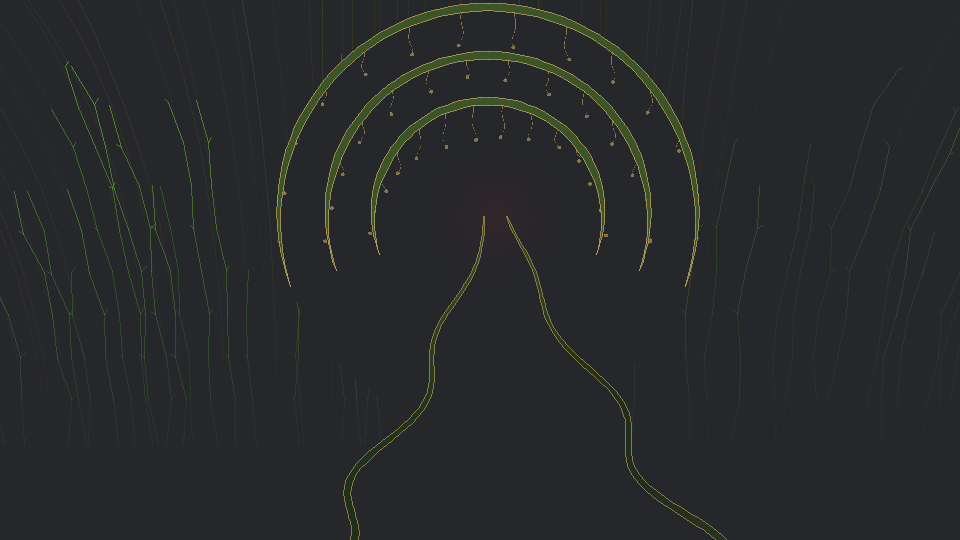
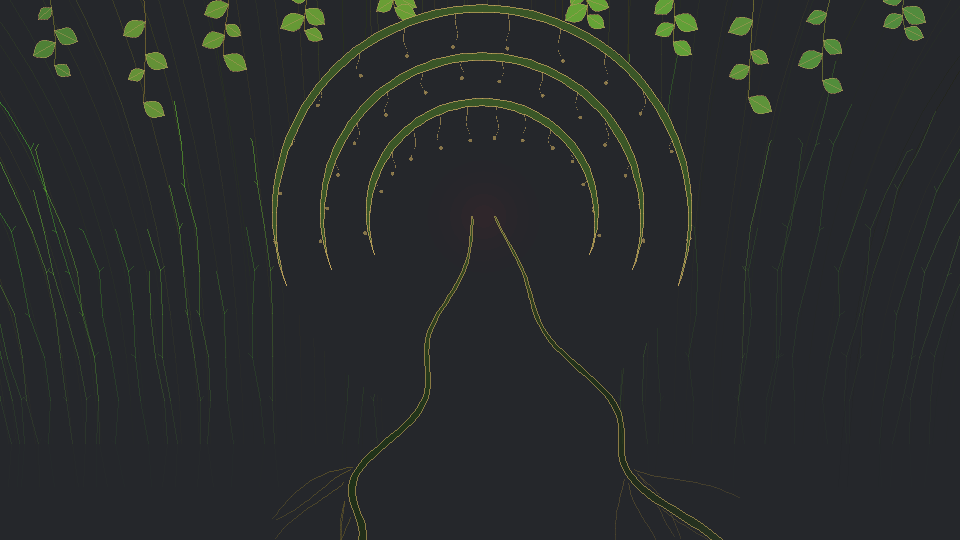
Heartwood (flagship): add undulating roots and a top canopy
- Roots: an undulating root flare from each trunk base, spreading down and
  outward off the bottom of the frame (umber/sienna, tapered). Drawn behind
  the ribbons and held a margin clear of the path wherever they would cross it.
- Canopy: leaf-laden branches hang from the top edge into the frame and off
  the top, framing the ring crown — each branch's hang is depth-limited so it
  keeps clear of the rings, and they sway gently.
- Refresh the flagship thumbnail and Wallpaper Engine zip.

The Simple variant (heartwood-simple) is untouched.

diff --git a/heartwood.html b/heartwood.html
@@ -369,11 +369,13 @@
 //
 // Layers, back to front:
 //   ground      - flat dark backdrop (env.background)
-//   forest      - swaying vertical tree-lines, faded by depth
-//   apex glow   - soft warm breathing light at the shared convergence point
+//   forest      - vined, swaying tree-lines that fan toward the edges
+//   apex glow   - dim burgundy light at the shared convergence point
+//   roots       - undulating root flare from each trunk base, kept clear of the path
 //   ribbons     - the two converging trunks/paths: segmented earthy-green fill
 //                 with a nouveau contour; breathe + sway in sync
-//   (future overlays: canopy at the top, root flare + leaf litter at the bottom)
+//   canopy      - leaf branches hanging from the top edge, framing the crown
+//   rings       - tapered, gold-dripping half-ring crown at the convergence
 (function (App) {
   App.createHeartwood = function (deps) {
     var color = deps.color;
@@ -716,6 +718,118 @@
       }
     }
 
+    // ---- roots: an undulating root flare from each trunk base, spreading down
+    // and outward off the bottom of the frame. Drawn behind the ribbons and kept
+    // a margin clear of the path wherever they would cross it. ----
+    function nearPath(x, y, ax, ay, w, h, margin) {
+      if (y < ay || y > h * 1.06) return false;
+      var t = (y - ay) / (h * 1.06 - ay);
+      var half = ribbonWidth(t) * 0.5 + margin;
+      return Math.abs(x - ribbonX(-1, t, ax, w)) < half || Math.abs(x - ribbonX(1, t, ax, w)) < half;
+    }
+
+    // Draw only the part of a root segment that keeps clear of the path margin.
+    function drawRootSeg(ctx, a, b, style, width, ax, ay, w, h, margin) {
+      var ai = nearPath(a.x, a.y, ax, ay, w, h, margin);
+      var bi = nearPath(b.x, b.y, ax, ay, w, h, margin);
+      if (ai && bi) return;
+      if (!ai && !bi) { App.strokePolyline(ctx, [a, b], style, width); return; }
+      var inP = ai ? a : b, outP = ai ? b : a;
+      for (var k = 0; k < 12; k++) {
+        var mx = (inP.x + outP.x) * 0.5, my = (inP.y + outP.y) * 0.5;
+        if (nearPath(mx, my, ax, ay, w, h, margin)) { inP = { x: mx, y: my }; }
+        else { outP = { x: mx, y: my }; }
+      }
+      App.strokePolyline(ctx, [outP, ai ? b : a], style, width);
+    }
+
+    var ROOT_SEGS = 18;
+    function growRoot(ctx, sx, sy, ang0, seed, t, ax, ay, w, h, baseWidth) {
+      var len = minDim * (0.16 + 0.08 * ((seed * 13) % 7) / 7);
+      var step = len / ROOT_SEGS, margin = minDim * 0.01;
+      var x = sx, y = sy, prev = { x: x, y: y };
+      var coil = 0.14 + 0.12 * ((seed * 7) % 5) / 5, ph = seed * 1.7;
+      var c = color.getCellColor(sx, Math.min(h, sy), w, h);
+      var rhue = c.h + (30 - c.h) * 0.72;                  // pull strongly toward umber/sienna
+      var rsat = Math.min(52, c.s * 1.15), rl = Math.min(42, c.l * 0.9);
+      for (var i = 1; i <= ROOT_SEGS; i++) {
+        var prog = i / ROOT_SEGS;
+        // Undulation: wavers over time and along the length; eases gently toward
+        // straight down as it descends, so roots curve from outward to downward.
+        var ang = ang0 + Math.sin(prog * 4 + ph + t * 0.7) * 0.3 * (1 - 0.35 * prog)
+                       + coil * Math.sin(prog * 3 + ph);
+        ang += (Math.PI / 2 - ang) * (0.02 + 0.13 * prog);
+        x += Math.cos(ang) * step; y += Math.sin(ang) * step;
+        var wd = baseWidth * Math.pow(1 - prog, 0.7) + 0.6; // taper to a fine tip
+        var style = 'hsla(' + rhue + ', ' + rsat + '%, ' + rl + '%, ' + (0.85 * (1 - 0.45 * prog)).toFixed(3) + ')';
+        drawRootSeg(ctx, prev, { x: x, y: y }, style, wd, ax, ay, w, h, margin);
+        prev = { x: x, y: y };
+      }
+    }
+
+    function drawRoots(ctx, w, h, t, ax, ay) {
+      var pathBottom = h * 1.06;
+      for (var sIdx = 0; sIdx < 2; sIdx++) {
+        var side = sIdx === 0 ? -1 : 1;
+        var flareT = 0.7;
+        var fx = ribbonX(side, flareT, ax, w), fy = ay + (pathBottom - ay) * flareT;
+        var baseW = ribbonWidth(flareT), nRoots = 6;
+        for (var ri = 0; ri < nRoots; ri++) {
+          var frac = nRoots > 1 ? ri / (nRoots - 1) : 0.5;
+          var ang0 = Math.PI / 2 - side * (0.1 + frac * 1.15); // down, leaning outward across the fan
+          growRoot(ctx, fx + side * baseW * 0.4, fy, ang0, ri + sIdx * 11, t, ax, ay, w, h, baseW * (0.85 - 0.3 * frac));
+        }
+      }
+    }
+
+    // ---- canopy: leaf-laden branches hanging from the top edge into the frame
+    // (and growing off the top), framing the ring crown. Each branch's hang is
+    // limited so it keeps clear of the rings, and they sway gently. ----
+    function leafShape(cx, cy, ang, L, Wd) {
+      var cd = Math.cos(ang), sd = Math.sin(ang), nx = -sd, ny = cd, left = [], right = [];
+      for (var s = 0; s <= 8; s++) {
+        var f = s / 8, px = cx + cd * L * f, py = cy + sd * L * f, off = Wd * Math.sin(Math.PI * f);
+        left.push({ x: px + nx * off, y: py + ny * off });
+        right.push({ x: px - nx * off, y: py - ny * off });
+      }
+      return left.concat(right.reverse());
+    }
+
+    function drawCanopyBranch(ctx, bx, topY, depth, sway, seed, t, w, h) {
+      var segs = 8, stem = [];
+      for (var s = 0; s <= segs; s++) {
+        var f = s / segs;
+        stem.push({ x: bx + sway * f + Math.sin(f * 2.5 + seed) * minDim * 0.012, y: topY + depth * f });
+      }
+      var c = color.getCellColor(bx, Math.max(0, topY + depth * 0.6), w, h);
+      var leafFill = 'hsl(' + (c.h + (120 - c.h) * 0.55) + ', ' + Math.min(52, c.s * 1.1) + '%, ' + Math.min(46, c.l * 0.82) + '%)';
+      var vein = 'rgba(184,154,94,0.45)';
+      App.strokePolyline(ctx, stem, 'hsla(' + (c.h + (40 - c.h) * 0.4) + ', ' + Math.min(46, c.s) + '%, ' + Math.min(38, c.l * 0.65) + '%, 0.85)', 2);
+      for (var li = 0; li < 4; li++) {
+        var f2 = 0.35 + 0.65 * (li / 3), idx = Math.min(segs, Math.round(f2 * segs));
+        var pt = stem[idx], pa = stem[Math.max(0, idx - 1)], pb = stem[Math.min(segs, idx + 1)];
+        var tang = Math.atan2(pb.y - pa.y, pb.x - pa.x), sideL = (li % 2 === 0) ? 1 : -1;
+        var L = minDim * (0.032 + 0.018 * Math.abs(Math.sin(seed + li))), lang = tang + sideL * 1.05;
+        var poly = leafShape(pt.x, pt.y, lang, L, L * 0.34);
+        App.fillPolygon(ctx, poly, leafFill);
+        App.strokePolygon(ctx, poly, vein, 1);
+        App.strokePolyline(ctx, [pt, { x: pt.x + Math.cos(lang) * L, y: pt.y + Math.sin(lang) * L }], vein, 0.8);
+      }
+    }
+
+    function drawCanopy(ctx, w, h, t, ax, ay) {
+      var cx = ringCx(ax, w), R = ringMaxR(ay), topY = -h * 0.05;
+      var nC = Math.max(6, Math.round(w / (minDim * 0.16)));
+      for (var i = 0; i < nC; i++) {
+        var bx = (i + 0.5) / nC * w + Math.sin(i * 12.9) * minDim * 0.02;
+        var dx = bx - cx, full = h * (0.17 + 0.07 * Math.sin(i * 1.7)), limit = full;
+        if (Math.abs(dx) < R) limit = (ay - Math.sqrt(R * R - dx * dx)) - topY - minDim * 0.03;
+        var depth = Math.min(full, limit);
+        if (depth < minDim * 0.05) continue;             // over the ring crown -> no canopy here
+        drawCanopyBranch(ctx, bx, topY, depth, Math.sin(t * 0.5 + i) * minDim * 0.02, i, t, w, h);
+      }
+    }
+
     // ---- lifecycle ----
     function rebuild(w, h) {
       W = w; H = h; minDim = Math.min(w, h);
@@ -745,9 +859,11 @@
 
       drawTreesBack(ctx, w, h, t, ax, ay);
       drawGlow(ctx, ax, ay, w, h);
+      drawRoots(ctx, w, h, t, ax, ay);                    // root flare from each trunk base (behind the path)
       drawRibbon(ctx, ribbonCenter(-1, w, h, ax, ay), w, h);
       drawRibbon(ctx, ribbonCenter(1, w, h, ax, ay), w, h);
       drawTreesFront(ctx, w, h, t, ax, ay);               // nearest trees in front, near the bottom
+      drawCanopy(ctx, w, h, t, ax, ay);                   // leaf branches hanging from the top edge
       drawArcs(ctx, ax, ay, w, h);                         // gold half-rings crowning the apex
     }
 

diff --git a/src/modes/heartwood.js b/src/modes/heartwood.js
@@ -8,11 +8,13 @@
 //
 // Layers, back to front:
 //   ground      - flat dark backdrop (env.background)
-//   forest      - swaying vertical tree-lines, faded by depth
-//   apex glow   - soft warm breathing light at the shared convergence point
+//   forest      - vined, swaying tree-lines that fan toward the edges
+//   apex glow   - dim burgundy light at the shared convergence point
+//   roots       - undulating root flare from each trunk base, kept clear of the path
 //   ribbons     - the two converging trunks/paths: segmented earthy-green fill
 //                 with a nouveau contour; breathe + sway in sync
-//   (future overlays: canopy at the top, root flare + leaf litter at the bottom)
+//   canopy      - leaf branches hanging from the top edge, framing the crown
+//   rings       - tapered, gold-dripping half-ring crown at the convergence
 (function (App) {
   App.createHeartwood = function (deps) {
     var color = deps.color;
@@ -355,6 +357,118 @@
       }
     }
 
+    // ---- roots: an undulating root flare from each trunk base, spreading down
+    // and outward off the bottom of the frame. Drawn behind the ribbons and kept
+    // a margin clear of the path wherever they would cross it. ----
+    function nearPath(x, y, ax, ay, w, h, margin) {
+      if (y < ay || y > h * 1.06) return false;
+      var t = (y - ay) / (h * 1.06 - ay);
+      var half = ribbonWidth(t) * 0.5 + margin;
+      return Math.abs(x - ribbonX(-1, t, ax, w)) < half || Math.abs(x - ribbonX(1, t, ax, w)) < half;
+    }
+
+    // Draw only the part of a root segment that keeps clear of the path margin.
+    function drawRootSeg(ctx, a, b, style, width, ax, ay, w, h, margin) {
+      var ai = nearPath(a.x, a.y, ax, ay, w, h, margin);
+      var bi = nearPath(b.x, b.y, ax, ay, w, h, margin);
+      if (ai && bi) return;
+      if (!ai && !bi) { App.strokePolyline(ctx, [a, b], style, width); return; }
+      var inP = ai ? a : b, outP = ai ? b : a;
+      for (var k = 0; k < 12; k++) {
+        var mx = (inP.x + outP.x) * 0.5, my = (inP.y + outP.y) * 0.5;
+        if (nearPath(mx, my, ax, ay, w, h, margin)) { inP = { x: mx, y: my }; }
+        else { outP = { x: mx, y: my }; }
+      }
+      App.strokePolyline(ctx, [outP, ai ? b : a], style, width);
+    }
+
+    var ROOT_SEGS = 18;
+    function growRoot(ctx, sx, sy, ang0, seed, t, ax, ay, w, h, baseWidth) {
+      var len = minDim * (0.16 + 0.08 * ((seed * 13) % 7) / 7);
+      var step = len / ROOT_SEGS, margin = minDim * 0.01;
+      var x = sx, y = sy, prev = { x: x, y: y };
+      var coil = 0.14 + 0.12 * ((seed * 7) % 5) / 5, ph = seed * 1.7;
+      var c = color.getCellColor(sx, Math.min(h, sy), w, h);
+      var rhue = c.h + (30 - c.h) * 0.72;                  // pull strongly toward umber/sienna
+      var rsat = Math.min(52, c.s * 1.15), rl = Math.min(42, c.l * 0.9);
+      for (var i = 1; i <= ROOT_SEGS; i++) {
+        var prog = i / ROOT_SEGS;
+        // Undulation: wavers over time and along the length; eases gently toward
+        // straight down as it descends, so roots curve from outward to downward.
+        var ang = ang0 + Math.sin(prog * 4 + ph + t * 0.7) * 0.3 * (1 - 0.35 * prog)
+                       + coil * Math.sin(prog * 3 + ph);
+        ang += (Math.PI / 2 - ang) * (0.02 + 0.13 * prog);
+        x += Math.cos(ang) * step; y += Math.sin(ang) * step;
+        var wd = baseWidth * Math.pow(1 - prog, 0.7) + 0.6; // taper to a fine tip
+        var style = 'hsla(' + rhue + ', ' + rsat + '%, ' + rl + '%, ' + (0.85 * (1 - 0.45 * prog)).toFixed(3) + ')';
+        drawRootSeg(ctx, prev, { x: x, y: y }, style, wd, ax, ay, w, h, margin);
+        prev = { x: x, y: y };
+      }
+    }
+
+    function drawRoots(ctx, w, h, t, ax, ay) {
+      var pathBottom = h * 1.06;
+      for (var sIdx = 0; sIdx < 2; sIdx++) {
+        var side = sIdx === 0 ? -1 : 1;
+        var flareT = 0.7;
+        var fx = ribbonX(side, flareT, ax, w), fy = ay + (pathBottom - ay) * flareT;
+        var baseW = ribbonWidth(flareT), nRoots = 6;
+        for (var ri = 0; ri < nRoots; ri++) {
+          var frac = nRoots > 1 ? ri / (nRoots - 1) : 0.5;
+          var ang0 = Math.PI / 2 - side * (0.1 + frac * 1.15); // down, leaning outward across the fan
+          growRoot(ctx, fx + side * baseW * 0.4, fy, ang0, ri + sIdx * 11, t, ax, ay, w, h, baseW * (0.85 - 0.3 * frac));
+        }
+      }
+    }
+
+    // ---- canopy: leaf-laden branches hanging from the top edge into the frame
+    // (and growing off the top), framing the ring crown. Each branch's hang is
+    // limited so it keeps clear of the rings, and they sway gently. ----
+    function leafShape(cx, cy, ang, L, Wd) {
+      var cd = Math.cos(ang), sd = Math.sin(ang), nx = -sd, ny = cd, left = [], right = [];
+      for (var s = 0; s <= 8; s++) {
+        var f = s / 8, px = cx + cd * L * f, py = cy + sd * L * f, off = Wd * Math.sin(Math.PI * f);
+        left.push({ x: px + nx * off, y: py + ny * off });
+        right.push({ x: px - nx * off, y: py - ny * off });
+      }
+      return left.concat(right.reverse());
+    }
+
+    function drawCanopyBranch(ctx, bx, topY, depth, sway, seed, t, w, h) {
+      var segs = 8, stem = [];
+      for (var s = 0; s <= segs; s++) {
+        var f = s / segs;
+        stem.push({ x: bx + sway * f + Math.sin(f * 2.5 + seed) * minDim * 0.012, y: topY + depth * f });
+      }
+      var c = color.getCellColor(bx, Math.max(0, topY + depth * 0.6), w, h);
+      var leafFill = 'hsl(' + (c.h + (120 - c.h) * 0.55) + ', ' + Math.min(52, c.s * 1.1) + '%, ' + Math.min(46, c.l * 0.82) + '%)';
+      var vein = 'rgba(184,154,94,0.45)';
+      App.strokePolyline(ctx, stem, 'hsla(' + (c.h + (40 - c.h) * 0.4) + ', ' + Math.min(46, c.s) + '%, ' + Math.min(38, c.l * 0.65) + '%, 0.85)', 2);
+      for (var li = 0; li < 4; li++) {
+        var f2 = 0.35 + 0.65 * (li / 3), idx = Math.min(segs, Math.round(f2 * segs));
+        var pt = stem[idx], pa = stem[Math.max(0, idx - 1)], pb = stem[Math.min(segs, idx + 1)];
+        var tang = Math.atan2(pb.y - pa.y, pb.x - pa.x), sideL = (li % 2 === 0) ? 1 : -1;
+        var L = minDim * (0.032 + 0.018 * Math.abs(Math.sin(seed + li))), lang = tang + sideL * 1.05;
+        var poly = leafShape(pt.x, pt.y, lang, L, L * 0.34);
+        App.fillPolygon(ctx, poly, leafFill);
+        App.strokePolygon(ctx, poly, vein, 1);
+        App.strokePolyline(ctx, [pt, { x: pt.x + Math.cos(lang) * L, y: pt.y + Math.sin(lang) * L }], vein, 0.8);
+      }
+    }
+
+    function drawCanopy(ctx, w, h, t, ax, ay) {
+      var cx = ringCx(ax, w), R = ringMaxR(ay), topY = -h * 0.05;
+      var nC = Math.max(6, Math.round(w / (minDim * 0.16)));
+      for (var i = 0; i < nC; i++) {
+        var bx = (i + 0.5) / nC * w + Math.sin(i * 12.9) * minDim * 0.02;
+        var dx = bx - cx, full = h * (0.17 + 0.07 * Math.sin(i * 1.7)), limit = full;
+        if (Math.abs(dx) < R) limit = (ay - Math.sqrt(R * R - dx * dx)) - topY - minDim * 0.03;
+        var depth = Math.min(full, limit);
+        if (depth < minDim * 0.05) continue;             // over the ring crown -> no canopy here
+        drawCanopyBranch(ctx, bx, topY, depth, Math.sin(t * 0.5 + i) * minDim * 0.02, i, t, w, h);
+      }
+    }
+
     // ---- lifecycle ----
     function rebuild(w, h) {
       W = w; H = h; minDim = Math.min(w, h);
@@ -384,9 +498,11 @@
 
       drawTreesBack(ctx, w, h, t, ax, ay);
       drawGlow(ctx, ax, ay, w, h);
+      drawRoots(ctx, w, h, t, ax, ay);                    // root flare from each trunk base (behind the path)
       drawRibbon(ctx, ribbonCenter(-1, w, h, ax, ay), w, h);
       drawRibbon(ctx, ribbonCenter(1, w, h, ax, ay), w, h);
       drawTreesFront(ctx, w, h, t, ax, ay);               // nearest trees in front, near the bottom
+      drawCanopy(ctx, w, h, t, ax, ay);                   // leaf branches hanging from the top edge
       drawArcs(ctx, ax, ay, w, h);                         // gold half-rings crowning the apex
     }
 